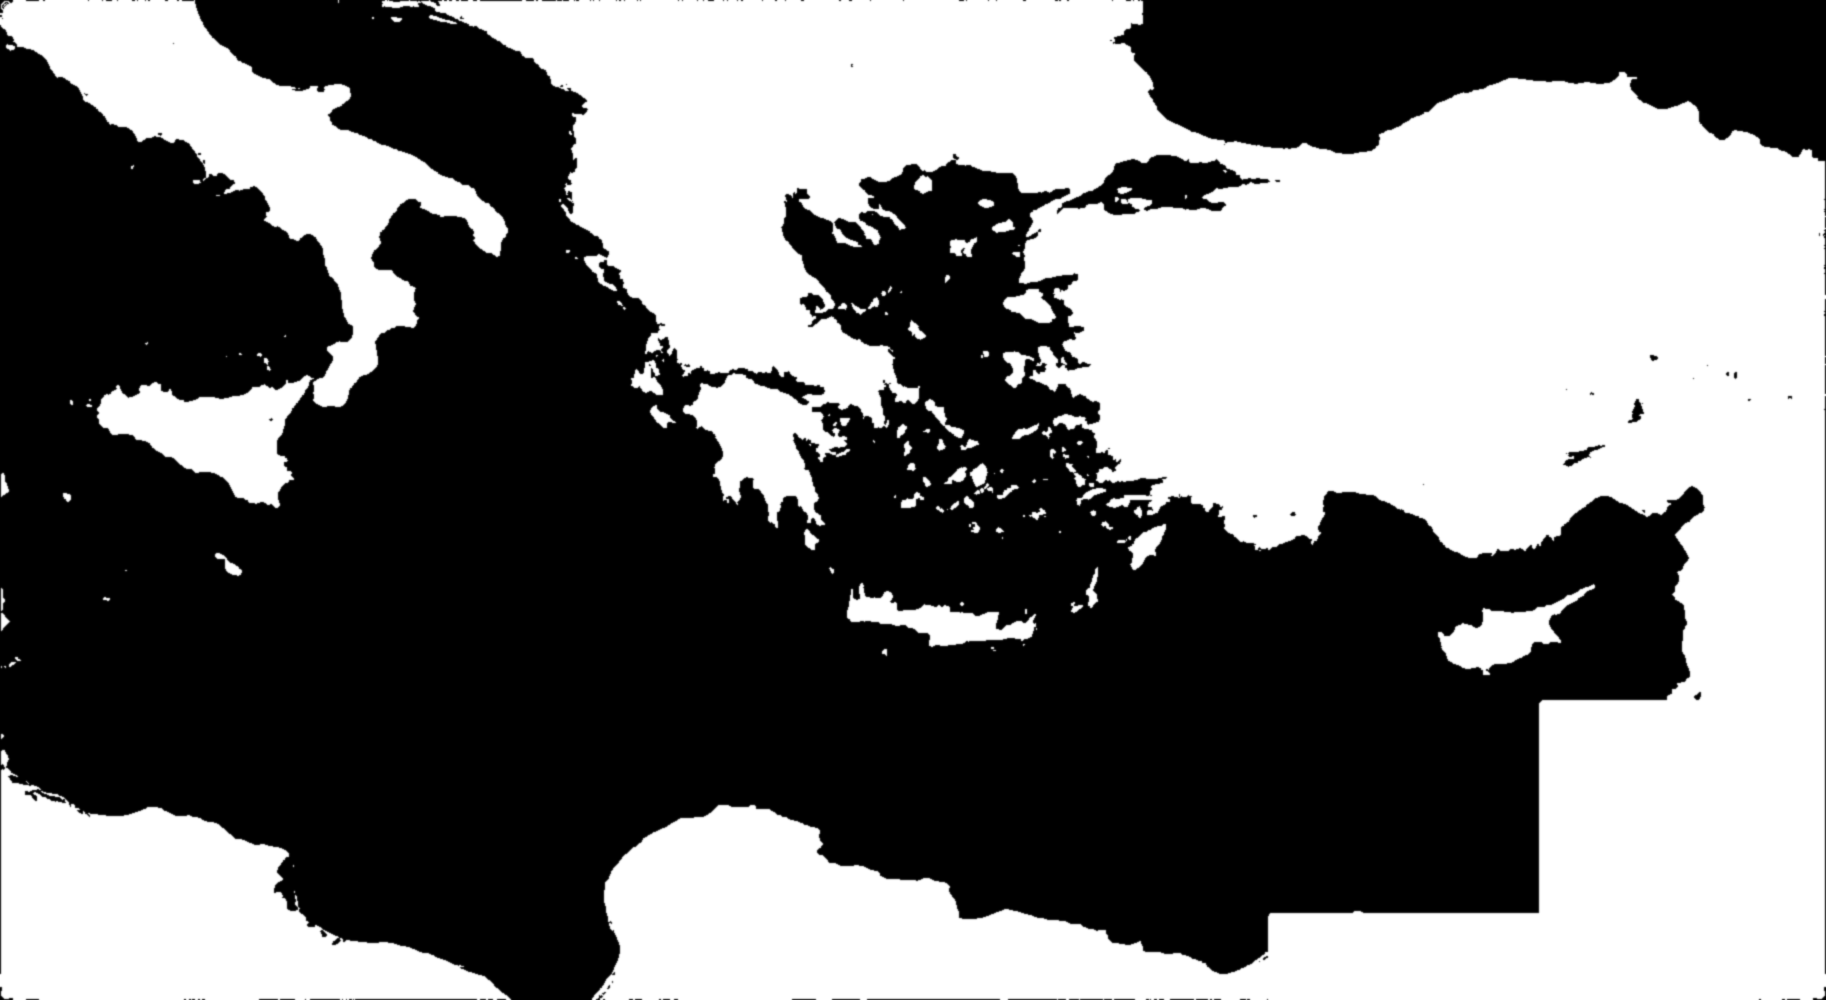
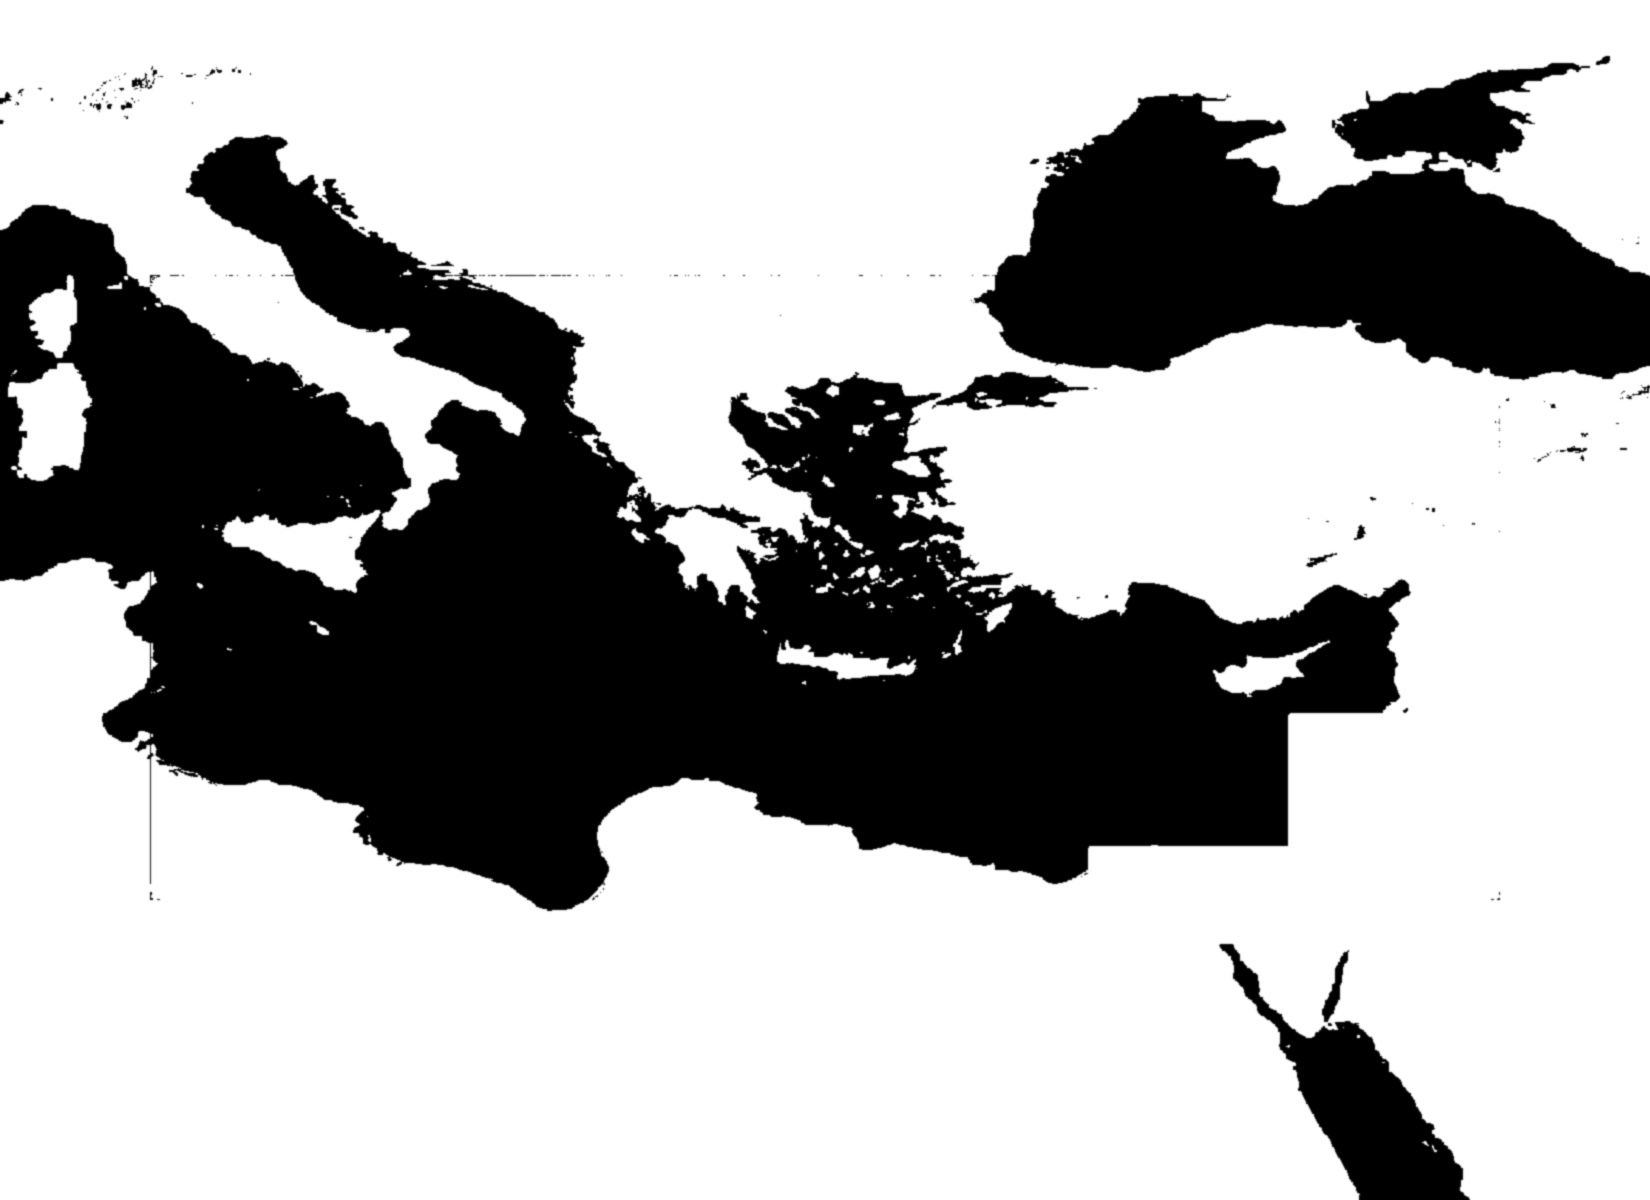
Paul realms: land mask over the whole wide relief so seas north of 43°N (Adriatic, Tyrrhenian) are masked too
Claude-Session: https://claude.ai/code/session_01GV3NhTaqGGfgU6h14cXy1F

diff --git a/app.js b/app.js
@@ -231,7 +231,7 @@ function buildMap() {
   <defs>
     <linearGradient id="seaGrad" x1="0" x2="1"><stop offset="0" stop-color="var(--sea-deep)"/><stop offset="1" stop-color="var(--sea)"/></linearGradient>
     ${jmap?.med ? `<linearGradient id="seaMed" gradientUnits="userSpaceOnUse" x1="${dx0}" x2="${px([0, 36.2])[0]}" y1="0" y2="0"><stop offset="0" stop-color="var(--sea-deep)"/><stop offset="1" stop-color="var(--sea)"/></linearGradient>` : ''}
-    ${jmap?.med ? `<mask id="landMask" maskUnits="userSpaceOnUse" x="${vx0}" y="${vy0}" width="${vx1 - vx0}" height="${vy1 - vy0}"><rect x="${vx0}" y="${vy0}" width="${vx1 - vx0}" height="${vy1 - vy0}" fill="#fff"/><image href="assets/relief-med-mask.png" x="${dx0}" y="${dy0}" width="${dx1 - dx0}" height="${dy1 - dy0}" preserveAspectRatio="none"/><path d="${sea}" fill="#000" clip-path="url(#medWin)"/></mask><clipPath id="medWin">${[[34.28, 33.76, 30.4, 37.02], [31.58, 29.75, 30.4, 33.76]].map(([a, b, c, d]) => { const [x0, y0] = px([a, b]), [x1, y1] = px([c, d]); return `<rect x="${x0}" y="${y0}" width="${x1 - x0}" height="${y1 - y0}"/>`; }).join('')}</clipPath>` : ''}
+    ${jmap?.med ? `<mask id="landMask" maskUnits="userSpaceOnUse" x="${vx0}" y="${vy0}" width="${vx1 - vx0}" height="${vy1 - vy0}"><rect x="${vx0}" y="${vy0}" width="${vx1 - vx0}" height="${vy1 - vy0}" fill="#fff"/><image href="assets/relief-med-mask.png" x="${vx0}" y="${vy0}" width="${vx1 - vx0}" height="${vy1 - vy0}" preserveAspectRatio="none"/><path d="${sea}" fill="#000" clip-path="url(#medWin)"/></mask><clipPath id="medWin">${[[34.28, 33.76, 30.4, 37.02], [31.58, 29.75, 30.4, 33.76]].map(([a, b, c, d]) => { const [x0, y0] = px([a, b]), [x1, y1] = px([c, d]); return `<rect x="${x0}" y="${y0}" width="${x1 - x0}" height="${y1 - y0}"/>`; }).join('')}</clipPath>` : ''}
     <radialGradient id="oasis"><stop offset="0" stop-color="var(--oasis)" stop-opacity=".75"/><stop offset=".6" stop-color="var(--oasis)" stop-opacity=".4"/><stop offset="1" stop-color="var(--oasis)" stop-opacity="0"/></radialGradient>
     <filter id="lakeSoft" x="-30%" y="-30%" width="160%" height="160%"><feGaussianBlur stdDeviation="3.2"/></filter>
     <filter id="waterEdge" x="-5%" y="-5%" width="110%" height="110%"><feGaussianBlur in="SourceAlpha" stdDeviation="4" result="b"/><feComposite in="SourceAlpha" in2="b" operator="arithmetic" k2="1" k3="-1" result="edge"/><feFlood flood-color="#21474f" flood-opacity=".5"/><feComposite in2="edge" operator="in"/><feComposite in2="SourceGraphic" operator="over"/></filter>
